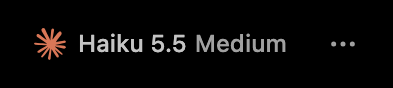
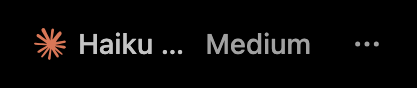
fix(pickers): model trigger keeps px-2 after its effort suffix; cluster harness at 4928
The 4928 model trigger is the control's px-2 on both sides with the effort suffix
inside it (ProviderModelPicker.tsx:373-379, ComposerControl.tsx:11-24,
ComposerControlsBar.tsx:186-247). The default themes drew 4pt of trailing padding,
which moved the permissions chip 4pt left; Dither keeps its 4.

The cluster harness now draws the whole cluster from the model trigger, with one
resting block (ComposerControlsBar.tsx:168-183). The spec's collapsed text-xs!
trigger is mobile only (ChatComposer.tsx:1043-1048, 2468), and the overflow trigger
is 2px wider than the icon-only chip, so the overflow state always shrinks the model
(composerFooterLayout.ts:76-115). both-icon and overflow-both now hold that shrunk
model at 96 and 156.5px, the states a desktop can reach. overflowSkipsPermissionsOnlyState
asserted 3824's two blocks; it now checks the 4928 jump straight to overflow.

Changed region(s): [[0.0611, 0.3182, 0.7634, 0.6818], [0.8244, 0.4545, 0.916, 0.5455]]

diff --git a/Packages/CandyKit/Tests/FeaturesTests/ComposerFooterFidelityTests.swift b/Packages/CandyKit/Tests/FeaturesTests/ComposerFooterFidelityTests.swift
@@ -5,7 +5,7 @@ import DesignSystem
 
 /// The composer footer's narrow states and the "..." overflow menu against T3's markup in Chromium
 /// (spec from scripts/gen-composer-footer-spec.py, references in design/component-reference/composer-footer).
-/// The cluster cases start at the traits separator. Writes ref, ours and diff PNGs plus
+/// The cluster cases start at the model trigger, which carries the effort as its suffix at 4928. Writes ref, ours and diff PNGs plus
 /// report-composer-footer.html to `Fidelity.root`.
 @MainActor @Suite(.fidelity)
 struct ComposerFooterFidelityTests {
@@ -42,14 +42,21 @@ struct ComposerFooterFidelityTests {
                 let canvas = SidebarSearchFidelityTests.Canvas(frame: .zero)
                 let p = try PickersFidelityTests.pickers()
                 if native["kind"] == "cluster" {
-                    let iconOnly = Int(native["iconOnly"]!)!, hidden = Int(native["hidden"]!)!
-                    if native["bars"] == "true" { p.traitsButton.icon = ComposerEffortGlyphView(.init(count: 4, filled: 2, label: "Medium", special: false)); p.traitsButton.title = ""; p.traitsButton.paddingOverride = (2, 4); p.traitsButton.mutedLabel = false }
+                    // 4928 has one resting block, the permissions chip (ComposerControlsBar.tsx:168-183), so the spec's
+                    // 3824 fit names map to it: one icon-only step, then the overflow trigger.
+                    let hidden = min(1, Int(native["hidden"]!)!), iconOnly = min(1, Int(native["iconOnly"]!)!)
+                    if native["bars"] == "true" {
+                        p.modelButton.adornment = ComposerModelSuffixView(ComposerModelSuffix(p.current.descriptors, ultrathink: false, bars: true))
+                    }
                     let v = Self.fitted(p, iconOnly: iconOnly, hidden: hidden)
                     #expect(v.fit == ComposerFooterLayout.Fit(hiddenCount: hidden, iconOnlyCount: iconOnly))
-                    // The reference starts at the first block's separator, one gap after the model.
-                    let start = v.model.frame.maxX - 2
-                    v.model.alphaValue = 0 // The reference contains only the controls after the model.
-                    v.frame.origin = NSPoint(x: 8 - start, y: 8)
+                    if let width = native["modelWidth"].flatMap(Double.init) {
+                        // A narrower host shrinks the model trigger once the chip is in the overflow menu.
+                        v.frame.size.width -= v.model.frame.width - CGFloat(width)
+                        v.layoutSubtreeIfNeeded()
+                    }
+                    // The reference starts at the model trigger (ComposerControlsBar.tsx:186-247).
+                    v.frame.origin = NSPoint(x: 8 - v.model.frame.minX, y: 8)
                     canvas.addSubview(v)
                 } else if native["kind"] == "files" {
                     let list = ComposerFileListView(frame: NSRect(x: 8, y: 8, width: 360, height: 104))
@@ -83,9 +90,9 @@ struct ComposerFooterFidelityTests {
         #expect(mean < 0.05)
     }
 
-    /// 3824 ComposerFooterControls.tsx:111-116 and composerFooterLayout.ts:53-75,109-117.
-    /// Replacing compact permissions with overflow costs 2px, so the old overflow-access
-    /// screenshot state cannot fit at any width. Keep a geometry check beside the reachable cases.
+    /// 4928 composerFooterLayout.ts:76-115 with one resting block, the permissions chip (ComposerControlsBar.tsx:168-183).
+    /// The overflow trigger is 2px wider than the icon-only chip (`px-2` against `ps-1.5`), so below the icon-only
+    /// width the chip moves straight into the overflow menu and the model trigger shrinks to make room.
     @Test func overflowSkipsPermissionsOnlyState() throws {
         for dark in [false, true] {
             let p = try PickersFidelityTests.pickers()
@@ -93,13 +100,15 @@ struct ComposerFooterFidelityTests {
             v.appearance = NSAppearance(named: dark ? .darkAqua : .aqua)
             v.hidesPermissions = false
             let m = v.measurement
-            let before = ComposerFooterLayout.width(m, hidden: 0, fixed: m.naturalFixedWidth, iconOnly: 2)
-            let intermediate = ComposerFooterLayout.width(m, hidden: 1, fixed: m.naturalFixedWidth, iconOnly: 2)
-            #expect(intermediate >= before)
-            v.frame = NSRect(x: 0, y: 0, width: before - 0.5, height: 28)
+            #expect(m.blockWidths.count == 1)
+            let iconOnly = ComposerFooterLayout.width(m, hidden: 0, fixed: m.naturalFixedWidth, iconOnly: 1)
+            let overflow = ComposerFooterLayout.width(m, hidden: 1, fixed: m.naturalFixedWidth, iconOnly: 1)
+            #expect(overflow == iconOnly + 2)
+            v.frame = NSRect(x: 0, y: 0, width: iconOnly - 0.5, height: 28)
             v.layoutSubtreeIfNeeded()
-            #expect(v.fit.hiddenCount == 2 && v.fit.iconOnlyCount == 2)
-            print("composer-overflow", dark ? "dark" : "light", "both icons", before, "permissions only hidden", intermediate, "overflow at", v.frame.width)
+            #expect(v.fit == ComposerFooterLayout.Fit(hiddenCount: 1, iconOnlyCount: 1))
+            #expect(v.model.frame.width < v.model.naturalWidth)
+            print("composer-overflow", dark ? "dark" : "light", "icon-only", iconOnly, "overflow", overflow, "host", v.frame.width)
         }
     }
 

diff --git a/Packages/CandyKit/Sources/Features/Pickers/ComposerPickers.swift b/Packages/CandyKit/Sources/Features/Pickers/ComposerPickers.swift
@@ -162,7 +162,8 @@ public final class ComposerPickers {
             traitsButton.adornment = nil
             accessButton.paddingOverride = (6, 8)
             modelButton.textOnly = true; traitsButton.textOnly = true
-            modelButton.paddingOverride = (8, 4)
+            // 4928's trigger keeps the control's `px-2` on both sides (ProviderModelPicker.tsx:373-379, ComposerControl.tsx:11-24).
+            modelButton.paddingOverride = (8, ComposerDesign.uses3814(dark: modelButton.effectiveAppearance.isDark) ? 8 : 4)
             modelButton.maximumLabelWidth = 224
             accessButton.icon = IconView(definition: current.runtimeMode == .fullAccess ? Self.fullAccessGlyph : mode.icon.definition, size: 16)
             accessButton.iconFollowsLabel = true

diff --git a/scripts/gen-composer-footer-spec.py b/scripts/gen-composer-footer-spec.py
@@ -58,12 +58,13 @@ def effort_glyph(count, filled):
     return (f'<svg aria-hidden="true" width="{width}" height="{height}" viewBox="0 0 {width} {height}" style="width:{width}px;height:{height}px" '
             f'class="shrink-0 text-current" data-composer-effort-glyph data-composer-control-icon>{rects}</svg>')
 
-def model_trigger(bars=False, collapsed=False):
+def model_trigger(bars=False, width=None):
     effort = effort_glyph(4, 2) if bars else '<span data-composer-control-label class="max-w-24 truncate">Medium</span>'
-    cls = MODEL_TRIGGER + (" min-w-13 shrink text-xs!" if collapsed else " min-w-13")
+    cls = MODEL_TRIGGER + " min-w-13"
+    style = f' style="width:{width}px"' if width else ""
     icon_html = ('<span data-chat-provider-model-picker-icon class="contents"><span class="relative isolate z-30 inline-flex shrink-0 items-center justify-center overflow-visible size-4">'
                  + claude_icon("fill-[#d97757] shrink-0 size-4") + '</span></span>')
-    return (f'<button type="button" aria-haspopup="dialog" data-chat-provider-model-picker="true" class="{cls}">'
+    return (f'<button type="button" aria-haspopup="dialog" data-chat-provider-model-picker="true" class="{cls}"{style}>'
             '<span class="flex min-w-0 flex-1 items-center gap-1.5">' + icon_html
             + '<span class="min-w-0 flex-1 overflow-hidden truncate max-w-56" data-chat-provider-model-picker-label="true">Haiku 5.5</span>'
             + f'<span class="{SUFFIX}">{effort}</span></span></button>')
@@ -77,10 +78,11 @@ def block(trigger_icon, label, icon_only):
 OVERFLOW = (f'<div data-resting-controls-overflow class="min-w-0 shrink-0"><button type="button" aria-haspopup="menu" aria-label="More composer controls" class="{CONTROL} shrink-0">'
             f'{control_icon("ellipsis")}</button></div>')
 
-def cluster(icon_only, hidden, bars=False):
-    # icon_only 1 makes the permissions chip icon-only; 2 also collapses the model trigger, the
-    # nearest 4928 state to the old both-icon-only cluster.
-    parts = [model_trigger(bars=bars, collapsed=icon_only >= 2)]
+def cluster(icon_only, hidden, bars=False, model_width=None):
+    # icon_only 1 makes the permissions chip icon-only. The collapsed `text-xs!` trigger is mobile only
+    # (ChatComposer.tsx:1043-1048, 2468), so the desktop's narrowest state stands in for the old
+    # both-icon-only cluster: the chip in the overflow menu and the model trigger shrunk to model_width.
+    parts = [model_trigger(bars=bars, width=model_width)]
     if hidden: parts.append(OVERFLOW)
     else: parts.append(block("shield-off", "Full access", icon_only >= 1))
     return f'<div class="flex items-center gap-0.5">{"".join(parts)}</div>'
@@ -120,8 +122,11 @@ def overflow_menu(with_traits):
 
 cases = []
 # The case names keep the 3824 fits (icon-only blocks, hidden blocks); cluster() maps them to 4928.
-for icon_only, hidden, name in [(1, 0, "access-icon"), (2, 0, "both-icon"), (2, 2, "overflow-both")]:
-    cases.append({"name": f"cluster.{name}", "html": cluster(icon_only, hidden), "native": {"kind": "cluster", "iconOnly": str(icon_only), "hidden": str(hidden)}})
+cases.append({"name": "cluster.access-icon", "html": cluster(1, 0), "native": {"kind": "cluster", "iconOnly": "1", "hidden": "0"}})
+# The overflow trigger is 2px wider than the icon-only chip, so the overflow state only comes below the icon-only
+# width (composerFooterLayout.ts:76-115) and the model trigger always gives up at least 2.5px: 158.93px natural here.
+cases.append({"name": "cluster.both-icon", "html": cluster(1, 1, model_width=96), "native": {"kind": "cluster", "iconOnly": "1", "hidden": "1", "modelWidth": "96"}})
+cases.append({"name": "cluster.overflow-both", "html": cluster(1, 1, model_width=156.5), "native": {"kind": "cluster", "iconOnly": "1", "hidden": "1", "modelWidth": "156.5"}})
 cases.append({"name": "cluster.bars", "html": cluster(0, 0, bars=True), "native": {"kind":"cluster", "iconOnly":"0", "hidden":"0", "bars":"true"}})
 cases.append({"name": "menu.access", "html": overflow_menu(False), "native": {"kind": "menu", "traits": "false"}})
 cases.append({"name": "menu.traits-access", "html": overflow_menu(True), "native": {"kind": "menu", "traits": "true"}})
